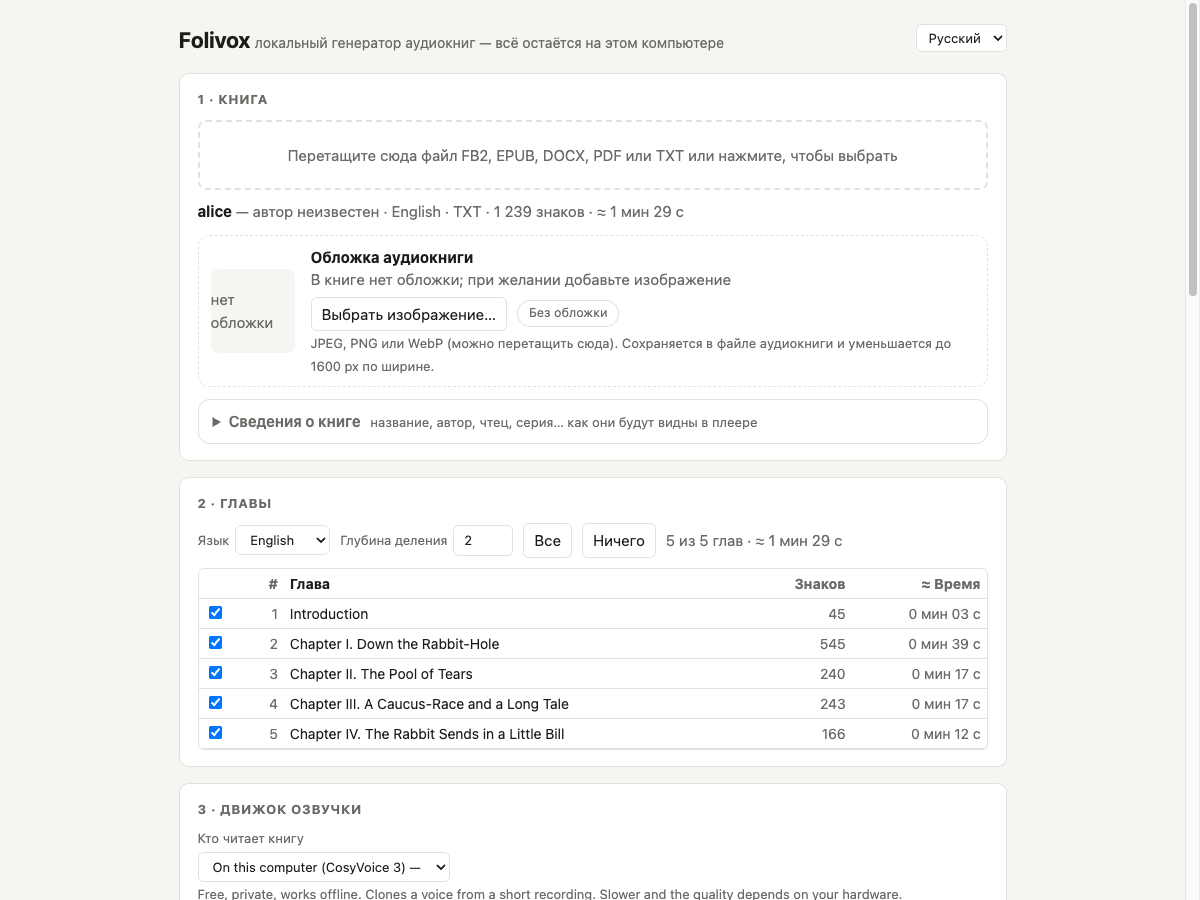
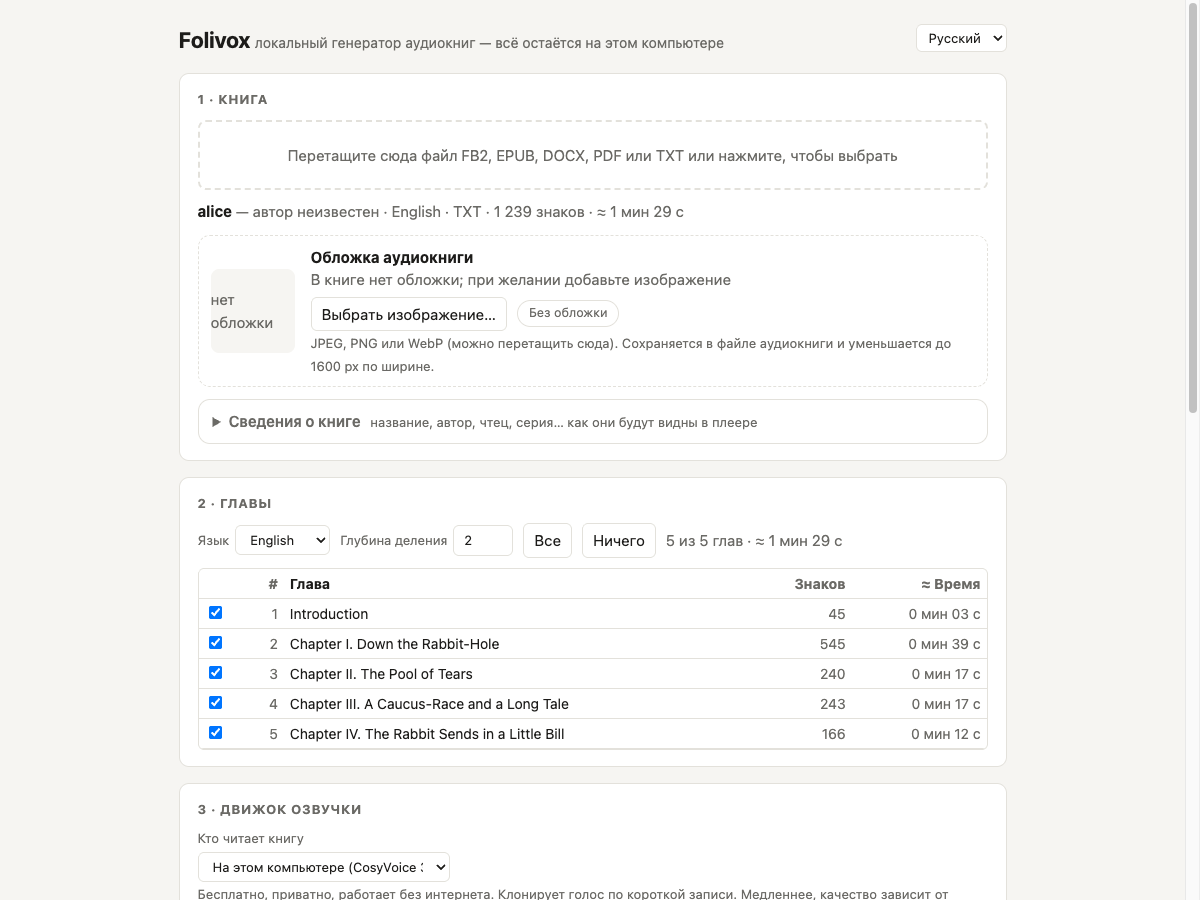
README: per-language normaliser highlight and link; Russian studio screenshot with translated engines

Changed region(s): [[0.1542, 0.9333, 0.8017, 1.0], [0.9867, 0.3111, 1.0, 0.4667]]

diff --git a/README.md b/README.md
@@ -94,8 +94,10 @@ metadata or its text; `--lang` overrides it.
 <td width="33%" valign="top">
 
 **Text prepared for speech**<br>
-Numbers, dates, years, centuries, units and abbreviations read in full (with case and gender agreement in
-Russian); sentences split and packed into fragments; dialogue pauses.
+Numbers, dates, times, money, units, roman numerals and abbreviations read in full, with case and gender
+agreement where the language has it (Russian cases, Spanish `veintiuna`, French `une`, German `eine`, Korean
+native counters, Chinese `两`); sentences split and packed into fragments; dialogue pauses.
+[Per-language table](docs/how-it-works.md#what-the-normaliser-reads-out-per-language).
 
 </td>
 </tr>
@@ -190,6 +192,8 @@ redacted support bundle. Pluggable providers via entry points.
 - **Free for real.** The local engine has no limits and no bill; online engines are an option, not a requirement.
 - **A workhorse for long books.** Resumable, crash-safe, quality-checked, with a time forecast: start a
   ten-hour book and walk away.
+- **Speaks every book's language properly.** A text normaliser for each of the 9 languages reads numbers,
+  dates, money, units and roman numerals the way a narrator would, with gender and case agreement.
 - **Simple outside, deep inside.** A few clicks in the studio; every option is still there in the CLI.
 - **Any voice, consistent to the last page.** Yours, a bundled one, or one designed for the book.
 - **Honest about what leaves your computer.** Online use is opt-in, labelled, estimated and capped.
